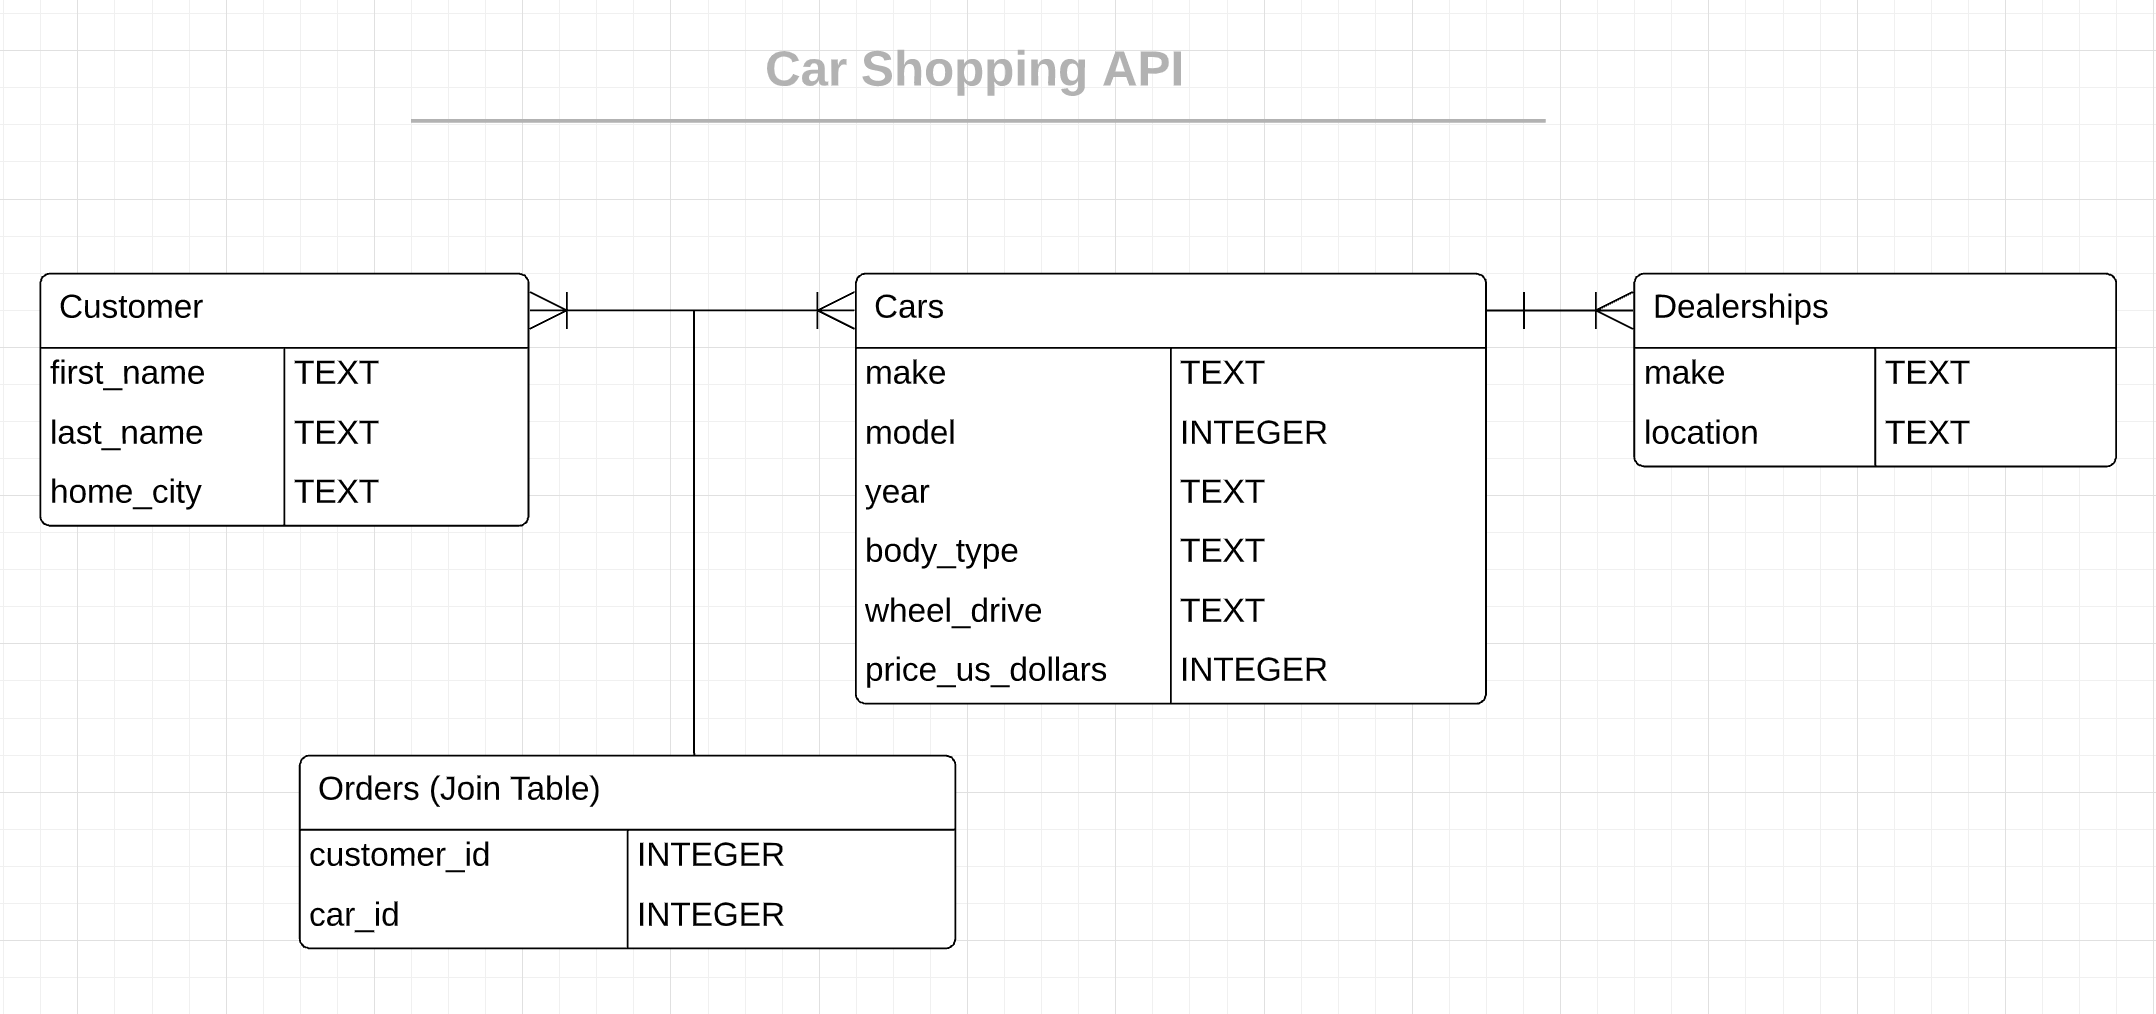
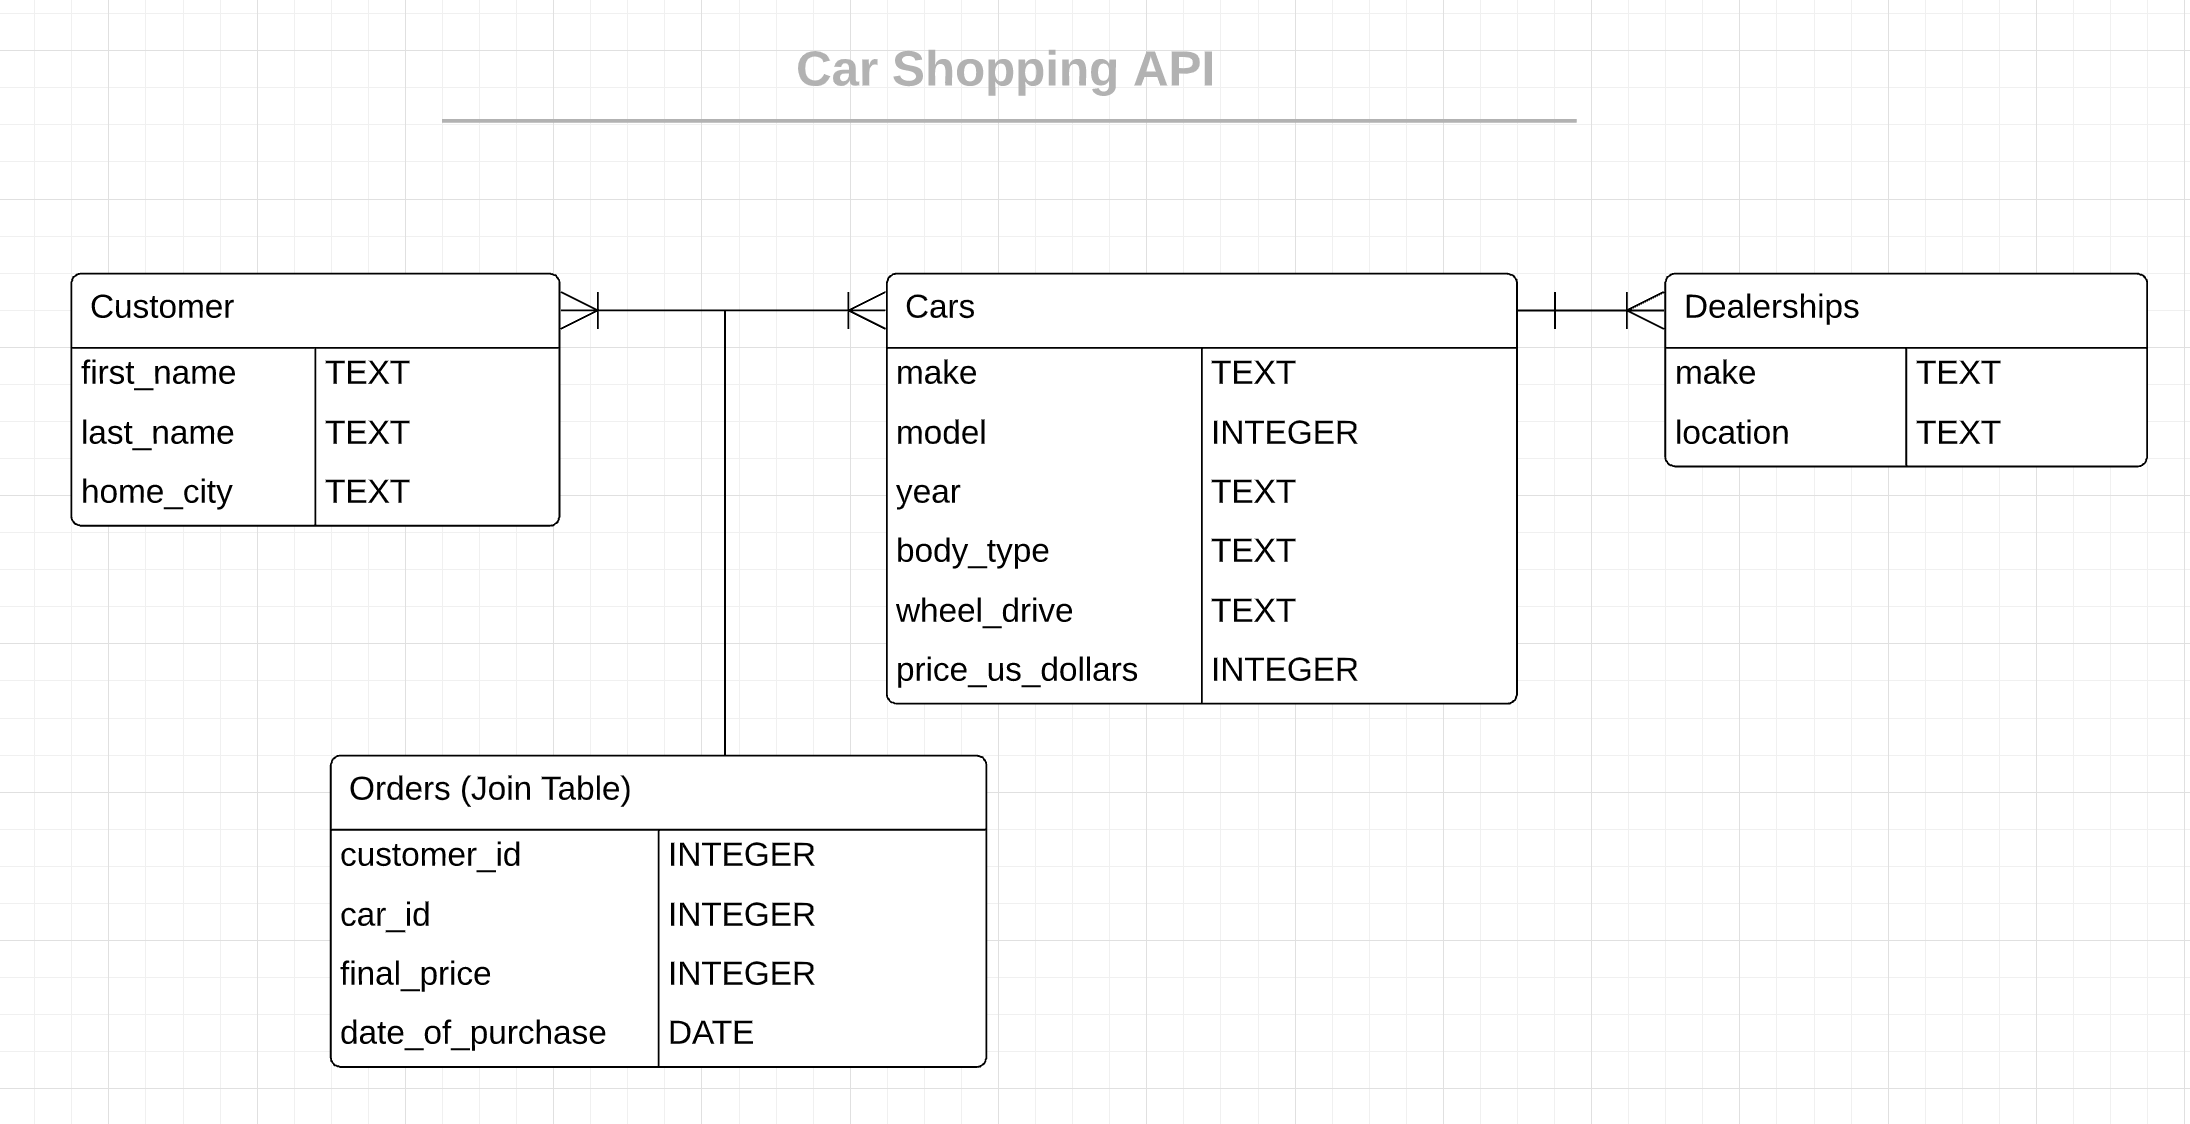
made final changes

diff --git a/index.js b/index.js
@@ -78,18 +78,15 @@ app.delete('/api/customers/:id', (req, res)=> {
 	database.run(deleteCustomer, customerId, error=> {
 		if(error) {
 			console.log(`Delete from customer with ID of ${customerId} failed`);
-			res.sendStatus(500);
 		} else {
 			console.log(`Delete from customer with ID of ${customerId} succeeded`);
-			res.sendStatus(200);
 		}
 	})
 	database.run(deleteCustomerOrder, customerId, error=> {
 		if(error) {
-			console.log(`Delete from customer with ID of ${customerId} failed`);
 			res.sendStatus(500);
 		} else {
-			console.log(`Delete from customer with ID of ${customerId} succeeded`);
+			console.log(`Delete from orders with customer ID of ${customerId} succeeded`);
 			res.sendStatus(200);
 		}
 	})
@@ -285,6 +282,20 @@ app.post('/api/customers/:id/cars/:carId', (req, res)=>{
 	});
 });
 
+app.put("/api/customers/:id/cars/:carId", (req, res) => {
+	const reqParams = [req.params.id, req.params.carId, req.body.final_price, req.body.date_of_purchase, req.params.id, req.params.carId]
+	let updateOrders = `UPDATE orders SET customer_id = ?, car_id = ?, final_price = ?, date_of_purchase = ? WHERE orders.customer_id = ${id} AND orders.car_id = ${carID}`
+
+	database.run(updateOrders, reqParams, error=> {
+		if(error) {
+			console.log(`Update orders failed`, error);
+			res.sendStatus(500);
+		} else {
+			console.log(`Update orders was updated successfully`);
+			res.sendStatus(200);
+		}
+	});
+
 app.delete('/api/cars/:id', (req, res)=> {
 	const carId = [req.params.id];
 	const deleteCar = `DELETE FROM cars WHERE ? = cars.oid`;
@@ -299,8 +310,6 @@ app.delete('/api/cars/:id', (req, res)=> {
 		}
 	});
 });
-
-
 
 
 app.listen(port, () => {
